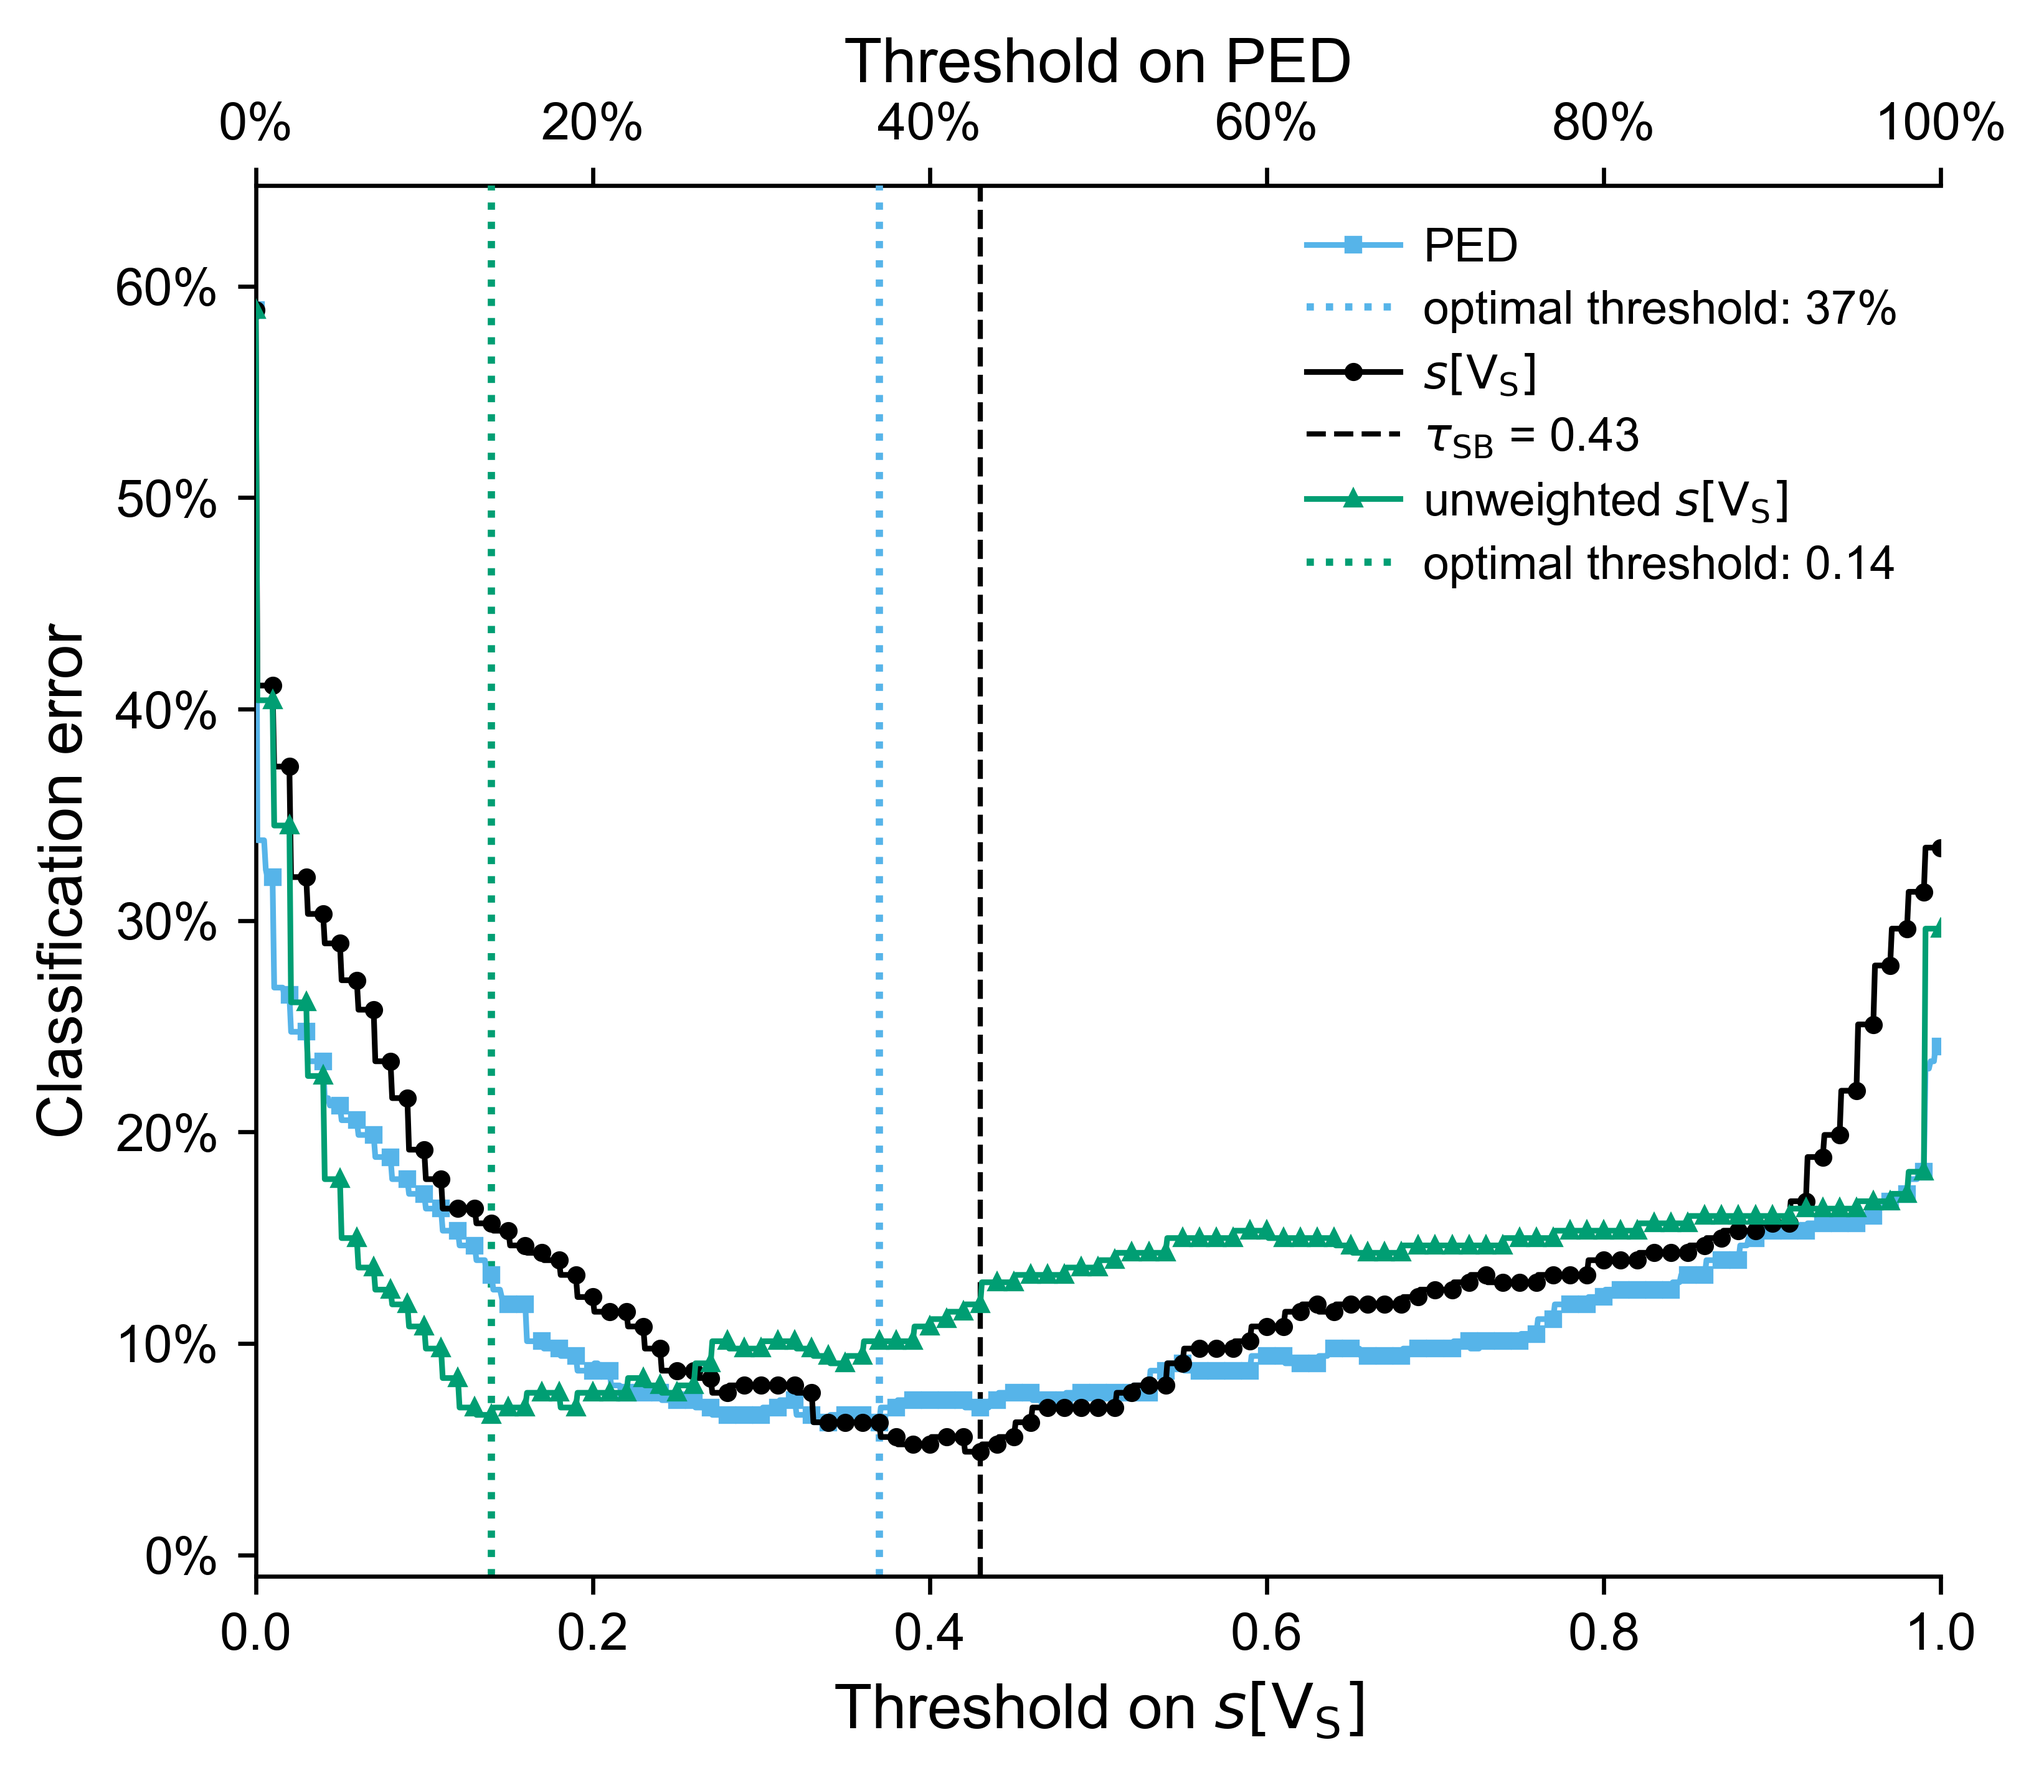
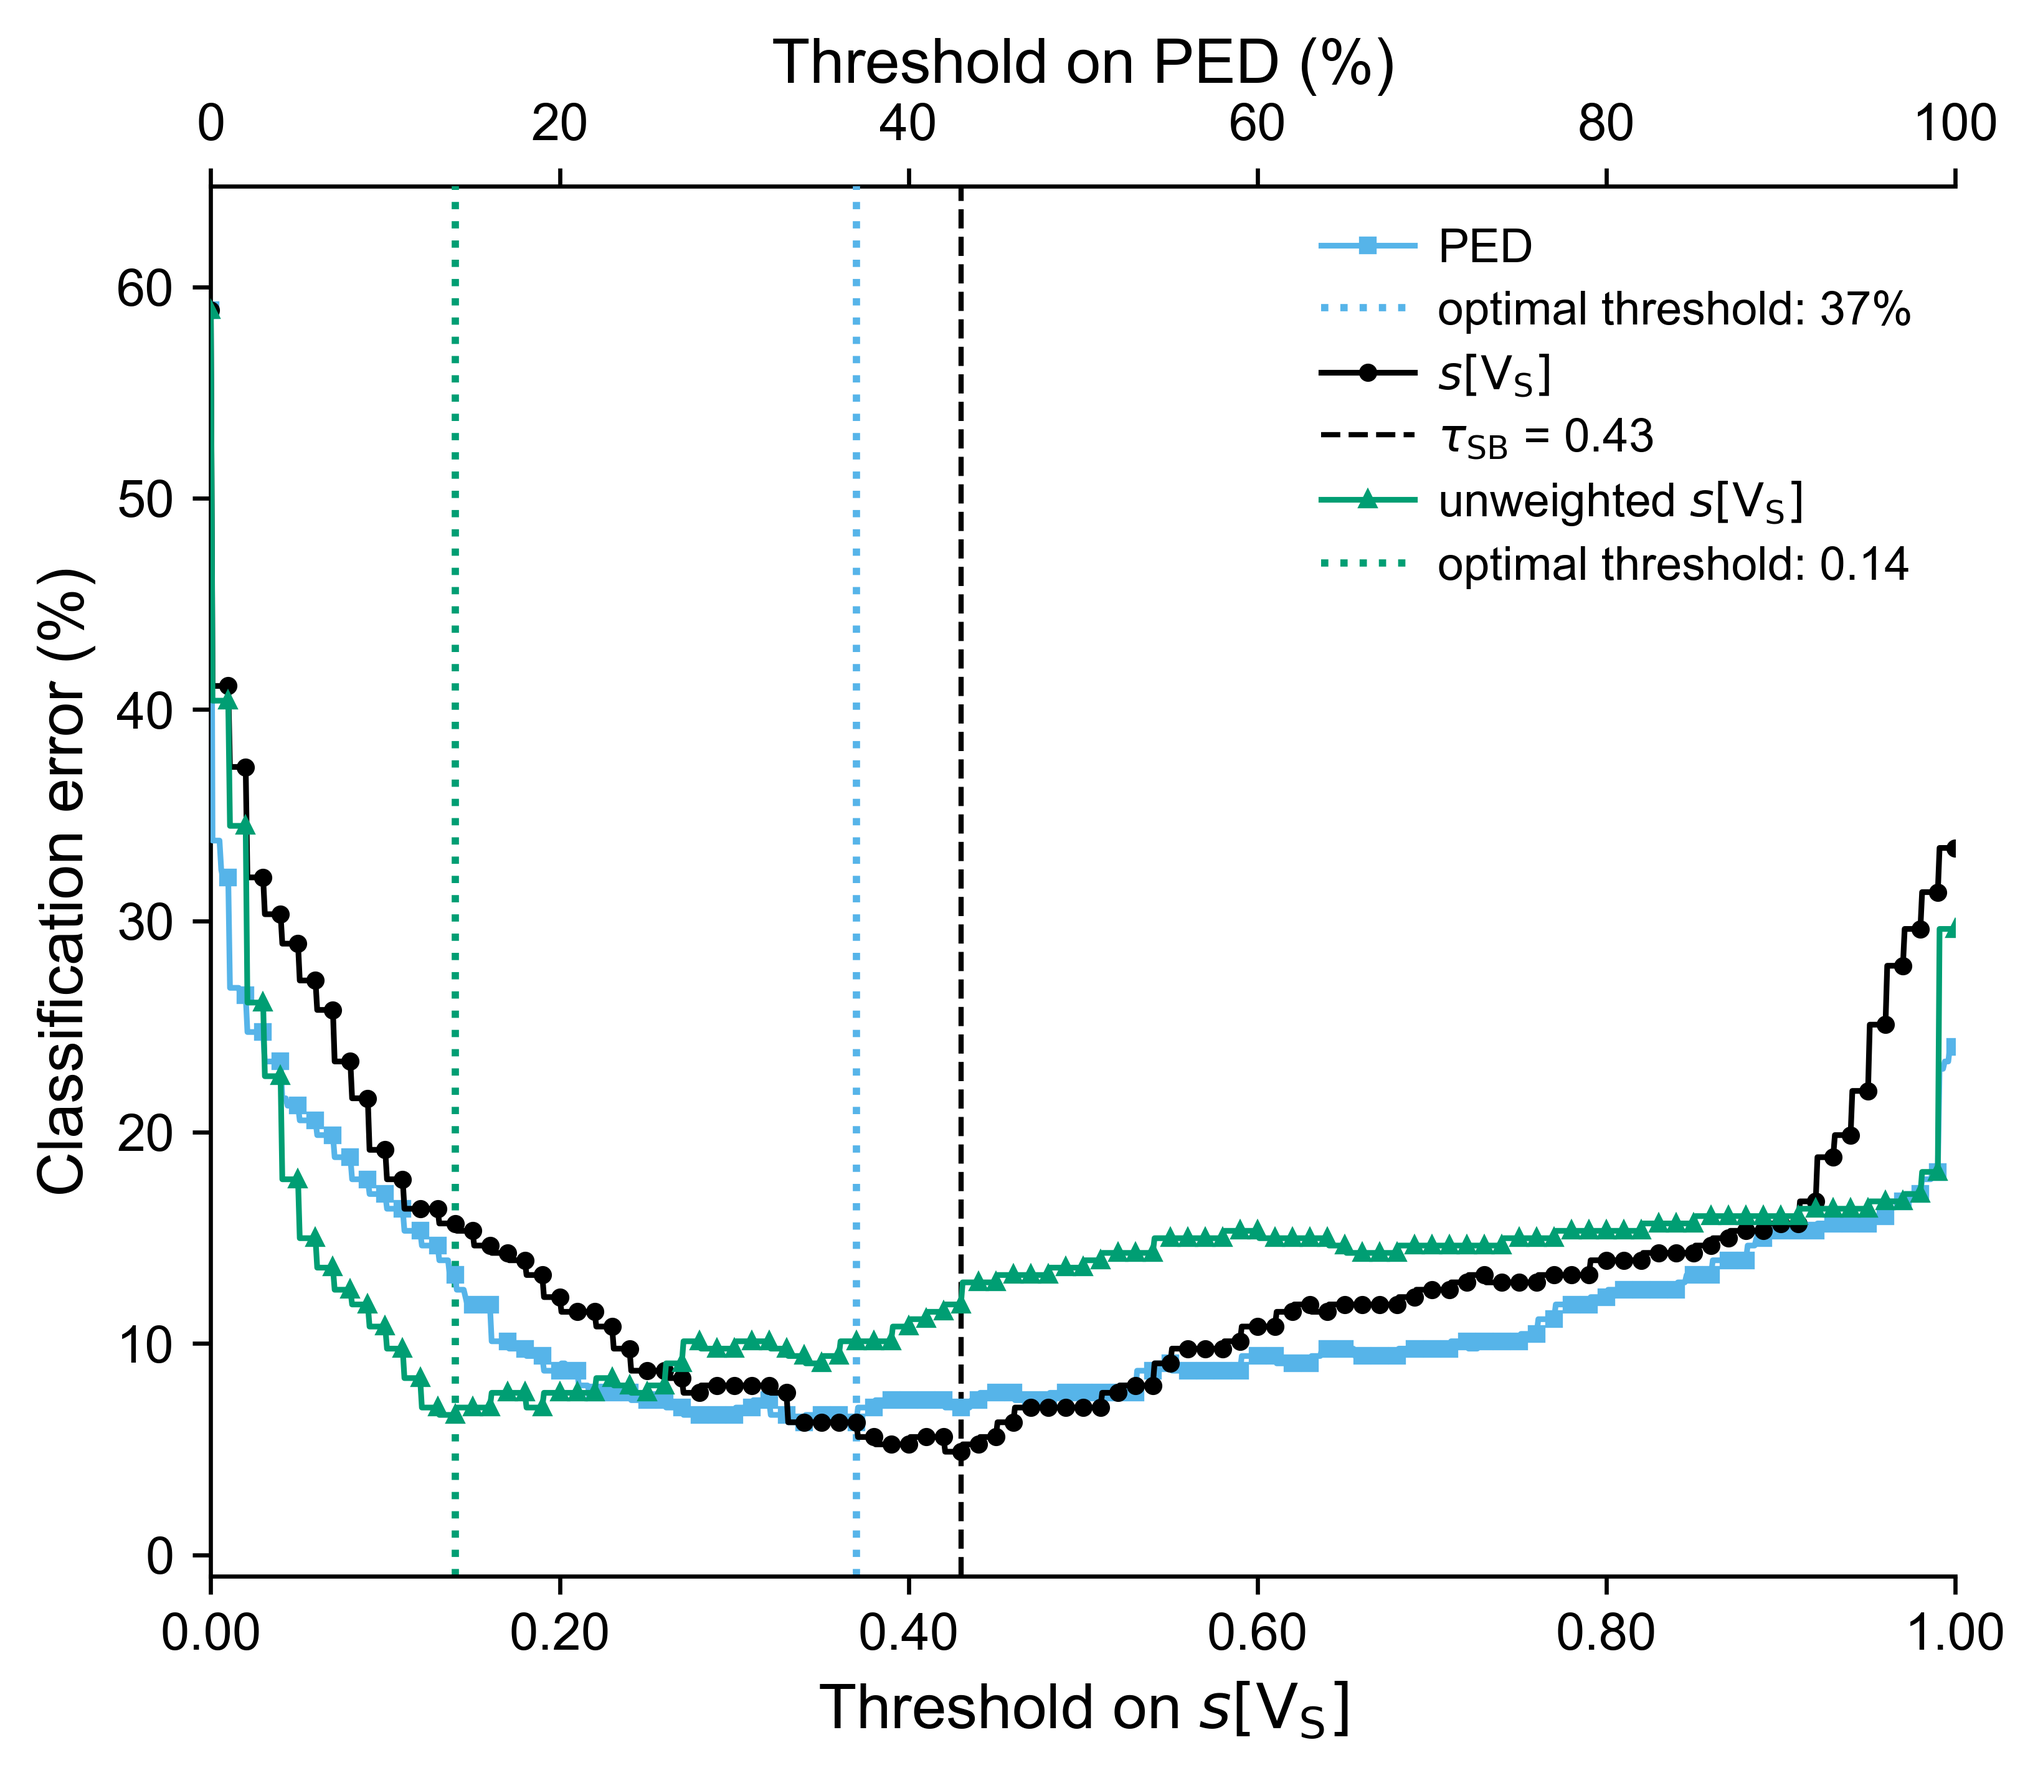
fig_sensitivity_stretch_predictors: units in axis labels, 2-decimal scores
'Classification error (%)' and 'Threshold on PED (%)' with bare tick
values (no % on each tick); s[V_S] threshold ticks with 2 decimals
(0.00 ... 1.00). Sweep CSV unchanged.

diff --git a/src/figures.py b/src/figures.py
@@ -2990,14 +2990,14 @@ def plot_stretch_predictor_sensitivity(
     # one physical axis, two notations: bottom = score threshold (0.xx), top = PED (%)
     ax.set_xlim(0, 100)
     ax.xaxis.set_major_locator(mtick.MultipleLocator(20))
-    ax.xaxis.set_major_formatter(mtick.FuncFormatter(lambda x, _: f"{x / 100:.1f}"))
+    ax.xaxis.set_major_formatter(mtick.FuncFormatter(lambda x, _: f"{x / 100:.2f}"))   # scores: 0.xx
     ax.set_xlabel(r"Threshold on $s[\mathrm{V_S}]$")
     top = ax.secondary_xaxis("top")
     top.xaxis.set_major_locator(mtick.MultipleLocator(20))
-    top.xaxis.set_major_formatter(mtick.FuncFormatter(lambda x, _: f"{x:.0f}%"))
-    top.set_xlabel("Threshold on PED")
-    ax.set_ylabel("Classification error")
-    ax.yaxis.set_major_formatter(mtick.PercentFormatter(xmax=1))
+    top.xaxis.set_major_formatter(mtick.FuncFormatter(lambda x, _: f"{x:.0f}"))
+    top.set_xlabel("Threshold on PED (%)")             # unit in the label, bare tick values
+    ax.set_ylabel("Classification error (%)")
+    ax.yaxis.set_major_formatter(mtick.FuncFormatter(lambda y, _: f"{100 * y:.0f}"))
     error_cols = ["error_PED", "error_weighted_sVS", "error_unweighted_sVS"]
     y_max = max(0.05, float(sweep[error_cols].max().max()) * 1.1)
     ax.set_ylim(-0.01, y_max)
